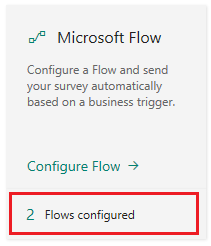
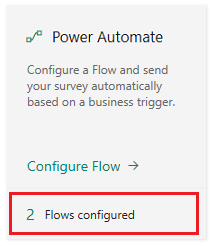
prod name update

Changed region(s): [[0.2275, 0.1138, 0.7678, 0.1992], [0.1137, 0.1138, 0.2275, 0.1992]]

diff --git a/fp-docs/create-survey-invite.md b/fp-docs/create-survey-invite.md
@@ -45,7 +45,7 @@ If you want to send a survey by using a platform other than Microsoft Forms Pro&
     - **Recipient details**: Specify a contact to associate your survey invitation and response records with. This value is stored in the survey invitation's **To** field. Only a Contact record is supported in this field.
 
     > [!NOTE]
-    > - If you want to associate your survey invitation and response with Common Data Service, you must enter values in **Regarding** and **Recipient details** fields, respectively. For more information about **Regarding** and **Recipient details** fields and how they're stored in the survey invitation, see [Send a survey action](send-survey-microsoft-flow.md#send-a-survey-action).
+    > - If you want to associate your survey invitation and response with Common Data Service, you must enter values in **Regarding** and **Recipient details** fields, respectively. For more information about **Regarding** and **Recipient details** fields and how they're stored in the survey invitation, see [Send a survey action](send-survey-flow.md#send-a-survey-action).
     > - If you've used survey variables in your survey, they'll be visible in this action and you can specify the values accordingly. More information: [Specify values in a flow](personalize-survey.md#specify-values-in-a-flow)
 
 8. Add a new step, and then select the action to send the email. You can use providers such as Outlook, Gmail, or SMS; we've used Outlook to send the survey in this procedure.
@@ -67,7 +67,7 @@ If you want to send a survey by using a platform other than Microsoft Forms Pro&
 
 [Work with survey settings](invite-settings.md)<br>
 [Send a survey by using email](send-survey-email.md)<br>
-[Send a survey by using Power Automate](send-survey-microsoft-flow.md)<br>
+[Send a survey by using Power Automate](send-survey-flow.md)<br>
 [Embed a survey in a webpage](embed-web-page.md)<br>
 [Send a survey link to others](send-survey-link.md)<br>
 [Send a survey QR code](send-survey-qrcode.md)<br>

diff --git a/fp-docs/embed-web-page.md b/fp-docs/embed-web-page.md
@@ -100,7 +100,7 @@ The preceding method calls the `renderSurvey` function and passes the required v
 
 [Work with survey settings](invite-settings.md)<br>
 [Send a survey by using email](send-survey-email.md)<br>
-[Send a survey by using Power Automate](send-survey-microsoft-flow.md)<br>
+[Send a survey by using Power Automate](send-survey-flow.md)<br>
 [Send a survey link to others](send-survey-link.md)<br>
 [Send a survey QR code](send-survey-qrcode.md)<br>
 [Embed a survey in Power Apps](embed-survey-powerapps.md)

diff --git a/fp-docs/send-survey-qrcode.md b/fp-docs/send-survey-qrcode.md
@@ -35,7 +35,7 @@ You can generate a QR code for your recipients to scan on a phone or tablet to a
 
 [Work with survey settings](invite-settings.md)<br>
 [Send a survey by using email](send-survey-email.md)<br>
-[Send a survey by using Power Automate](send-survey-microsoft-flow.md)<br>
+[Send a survey by using Power Automate](send-survey-flow.md)<br>
 [Embed a survey in a webpage](embed-web-page.md)<br>
 [Send a survey link to others](send-survey-link.md)<br>
 [Embed a survey in Power Apps](embed-survey-powerapps.md)

diff --git a/fp-docs/send-survey-link.md b/fp-docs/send-survey-link.md
@@ -35,7 +35,7 @@ If you don't have the email addresses of the people who you want to view your su
 
 [Work with survey settings](invite-settings.md)<br>
 [Send a survey by using email](send-survey-email.md)<br>
-[Send a survey by using Power Automate](send-survey-microsoft-flow.md)<br>
+[Send a survey by using Power Automate](send-survey-flow.md)<br>
 [Embed a survey in a webpage](embed-web-page.md)<br>
 [Send a survey QR code](send-survey-qrcode.md)<br>
 [Embed a survey in Power Apps](embed-survey-powerapps.md)

diff --git a/fp-docs/embed-survey-powerapps.md b/fp-docs/embed-survey-powerapps.md
@@ -65,7 +65,7 @@ You can embed your surveys in the canvas apps created by using Power Apps. This 
 
 [Work with survey settings](invite-settings.md)<br>
 [Send a survey by using email](send-survey-email.md)<br>
-[Send a survey by using Power Automate](send-survey-microsoft-flow.md)<br>
+[Send a survey by using Power Automate](send-survey-flow.md)<br>
 [Embed a survey in a webpage](embed-web-page.md)<br>
 [Send a survey link to others](send-survey-link.md)<br>
 [Send a survey QR code](send-survey-qrcode.md)<br>

diff --git a/fp-docs/TOC.md b/fp-docs/TOC.md
@@ -20,7 +20,7 @@
 # [Send a survey to get responses](send-survey.md)
 ## [Work with survey settings](invite-settings.md)  
 ## [Send a survey by using email](send-survey-email.md)  
-## [Send a survey by using Power Automate](send-survey-microsoft-flow.md)  
+## [Send a survey by using Power Automate](send-survey-flow.md)  
 ## [Embed a survey in a webpage](embed-web-page.md)  
 ## [Send a survey link to others](send-survey-link.md)  
 ## [Send a survey QR code](send-survey-qrcode.md)  

diff --git a/fp-docs/invite-settings.md b/fp-docs/invite-settings.md
@@ -108,7 +108,7 @@ When you send a survey by generating a link or a QR code, the survey links aren'
 ### See also
 
 [Send a survey by using email](send-survey-email.md)<br>
-[Send a survey by using Power Automate](send-survey-microsoft-flow.md)<br>
+[Send a survey by using Power Automate](send-survey-flow.md)<br>
 [Embed a survey in a webpage](embed-web-page.md)<br>
 [Send a survey link to others](send-survey-link.md)<br>
 [Send a survey QR code](send-survey-qrcode.md)<br>

diff --git a/fp-docs/send-survey-email.md b/fp-docs/send-survey-email.md
@@ -195,7 +195,7 @@ It can take from 24 to 72 hours for setup to be completed. After Microsoft suppo
 ### See also
 
 [Work with survey settings](invite-settings.md)<br>
-[Send a survey by using Power Automate](send-survey-microsoft-flow.md)<br>
+[Send a survey by using Power Automate](send-survey-flow.md)<br>
 [Embed a survey in a webpage](embed-web-page.md)<br>
 [Send a survey link to others](send-survey-link.md)<br>
 [Send a survey QR code](send-survey-qrcode.md)<br>

diff --git a/fp-docs/send-survey.md b/fp-docs/send-survey.md
@@ -34,7 +34,7 @@ In this section, you'll learn how to:
 
 - [Work with survey settings](invite-settings.md)
 - [Send a survey by using email](send-survey-email.md)  
-- [Send a survey by using Power Automate](send-survey-microsoft-flow.md)  
+- [Send a survey by using Power Automate](send-survey-flow.md)  
 - [Embed a survey in a webpage](embed-web-page.md)  
 - [Send a survey link to others](send-survey-link.md)  
 - [Send a survey QR code](send-survey-qrcode.md)  
